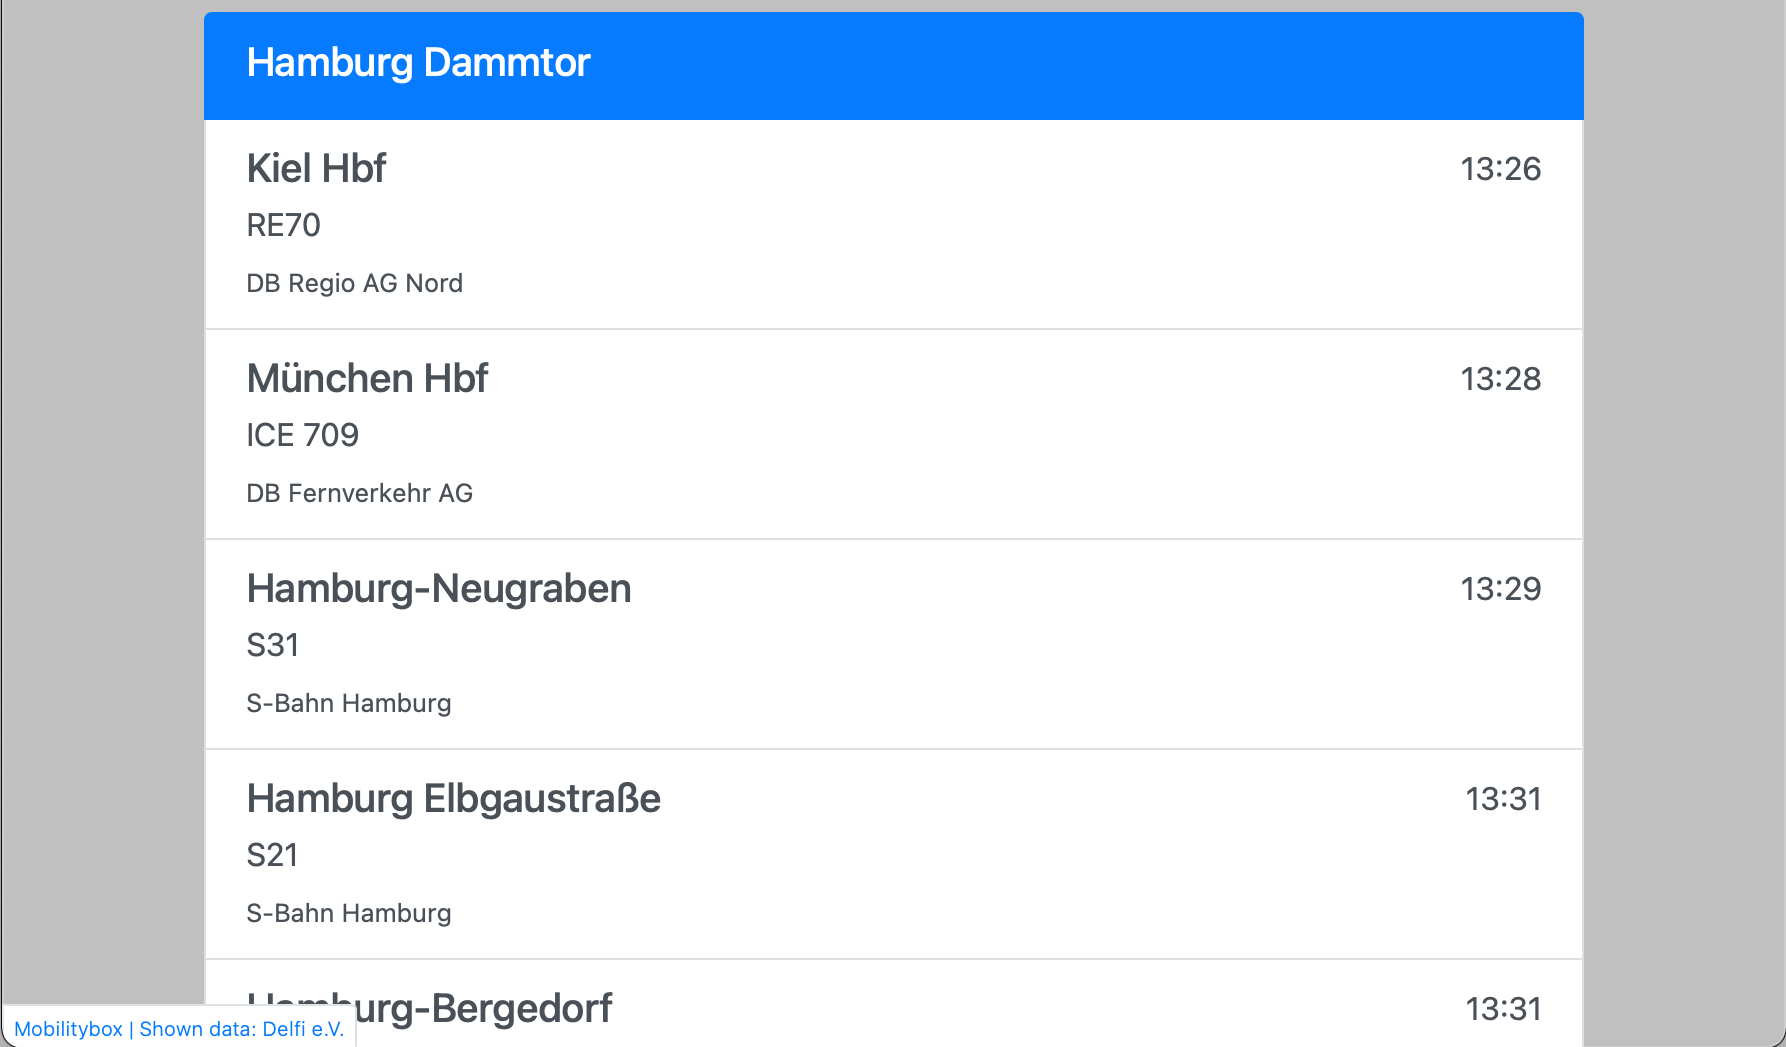
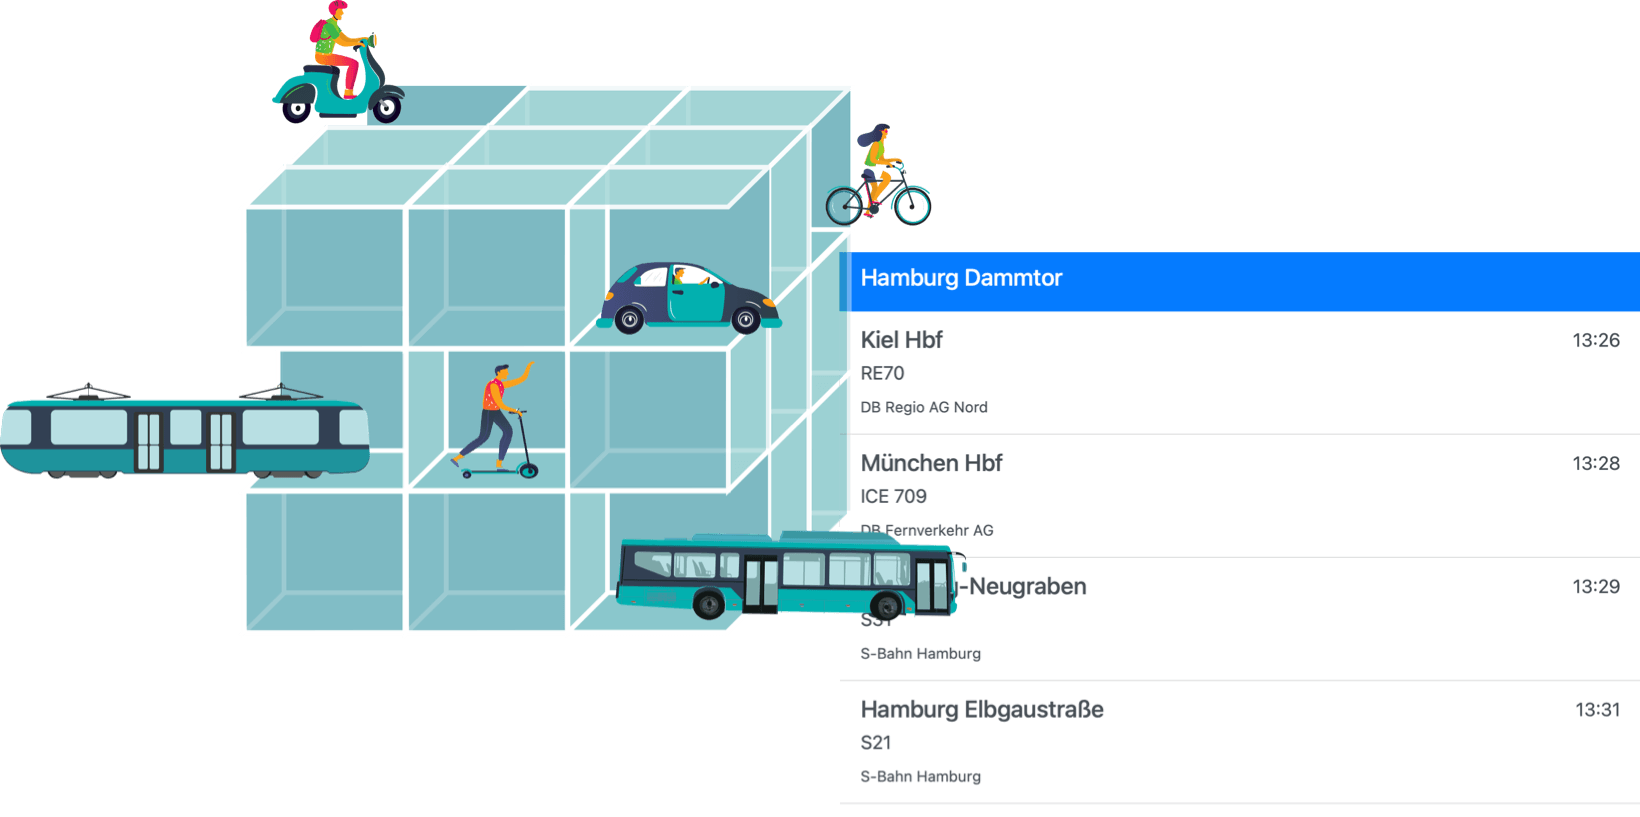
docs(badges & image): updates the Image and the wrongly linked badges

diff --git a/README.md b/README.md
@@ -1,11 +1,11 @@
-# Mobilitybox.js [![Build](https://img.shields.io/circleci/build/github/themobilitybox/mobilitybox.js/main?style=for-the-badge)](https://app.circleci.com/pipelines/github/themobilitybox/mobilitybox.js)[![Coverage](https://img.shields.io/codecov/c/github/themobilitybox/mobilitybox.js?style=for-the-badge)](https://codecov.io/gh/themobilitybox/mobilitybox.js)[![Version](https://img.shields.io/npm/v/mobilitybox?style=for-the-badge)](https://www.npmjs.com/package/mobilitybox)
+# Mobilitybox.js [![Build](https://img.shields.io/circleci/build/github/themobilitybox/mobilitybox-js/main?style=for-the-badge)](https://app.circleci.com/pipelines/github/themobilitybox/mobilitybox-js)[![Coverage](https://img.shields.io/codecov/c/github/themobilitybox/mobilitybox-js?style=for-the-badge)](https://codecov.io/gh/themobilitybox/mobilitybox-js)[![Version](https://img.shields.io/npm/v/mobilitybox?style=for-the-badge)](https://www.npmjs.com/package/mobilitybox)
 
 A fast and easy to use wrapper for [the Mobilitybox](https://themobilitybox.com/). Get scheduling data at ease.
 
 - [Live Demo](https://developer.themobilitybox.com/examples/1/code)
 - [Code Examples (including Deparutes, Live-Data, Trip-Pearl-String, Search-Near-User)](https://developer.themobilitybox.com/examples)
 
-[<img src="example.png" alt="Mobilitybox example" width="400" />](https://developer.themobilitybox.com/examples/1/code)
+[<img src="example.png" alt="Mobilitybox example" width="840" />](https://developer.themobilitybox.com/examples/1/code)
 
 ### Projects based on Mobilitybox
 
